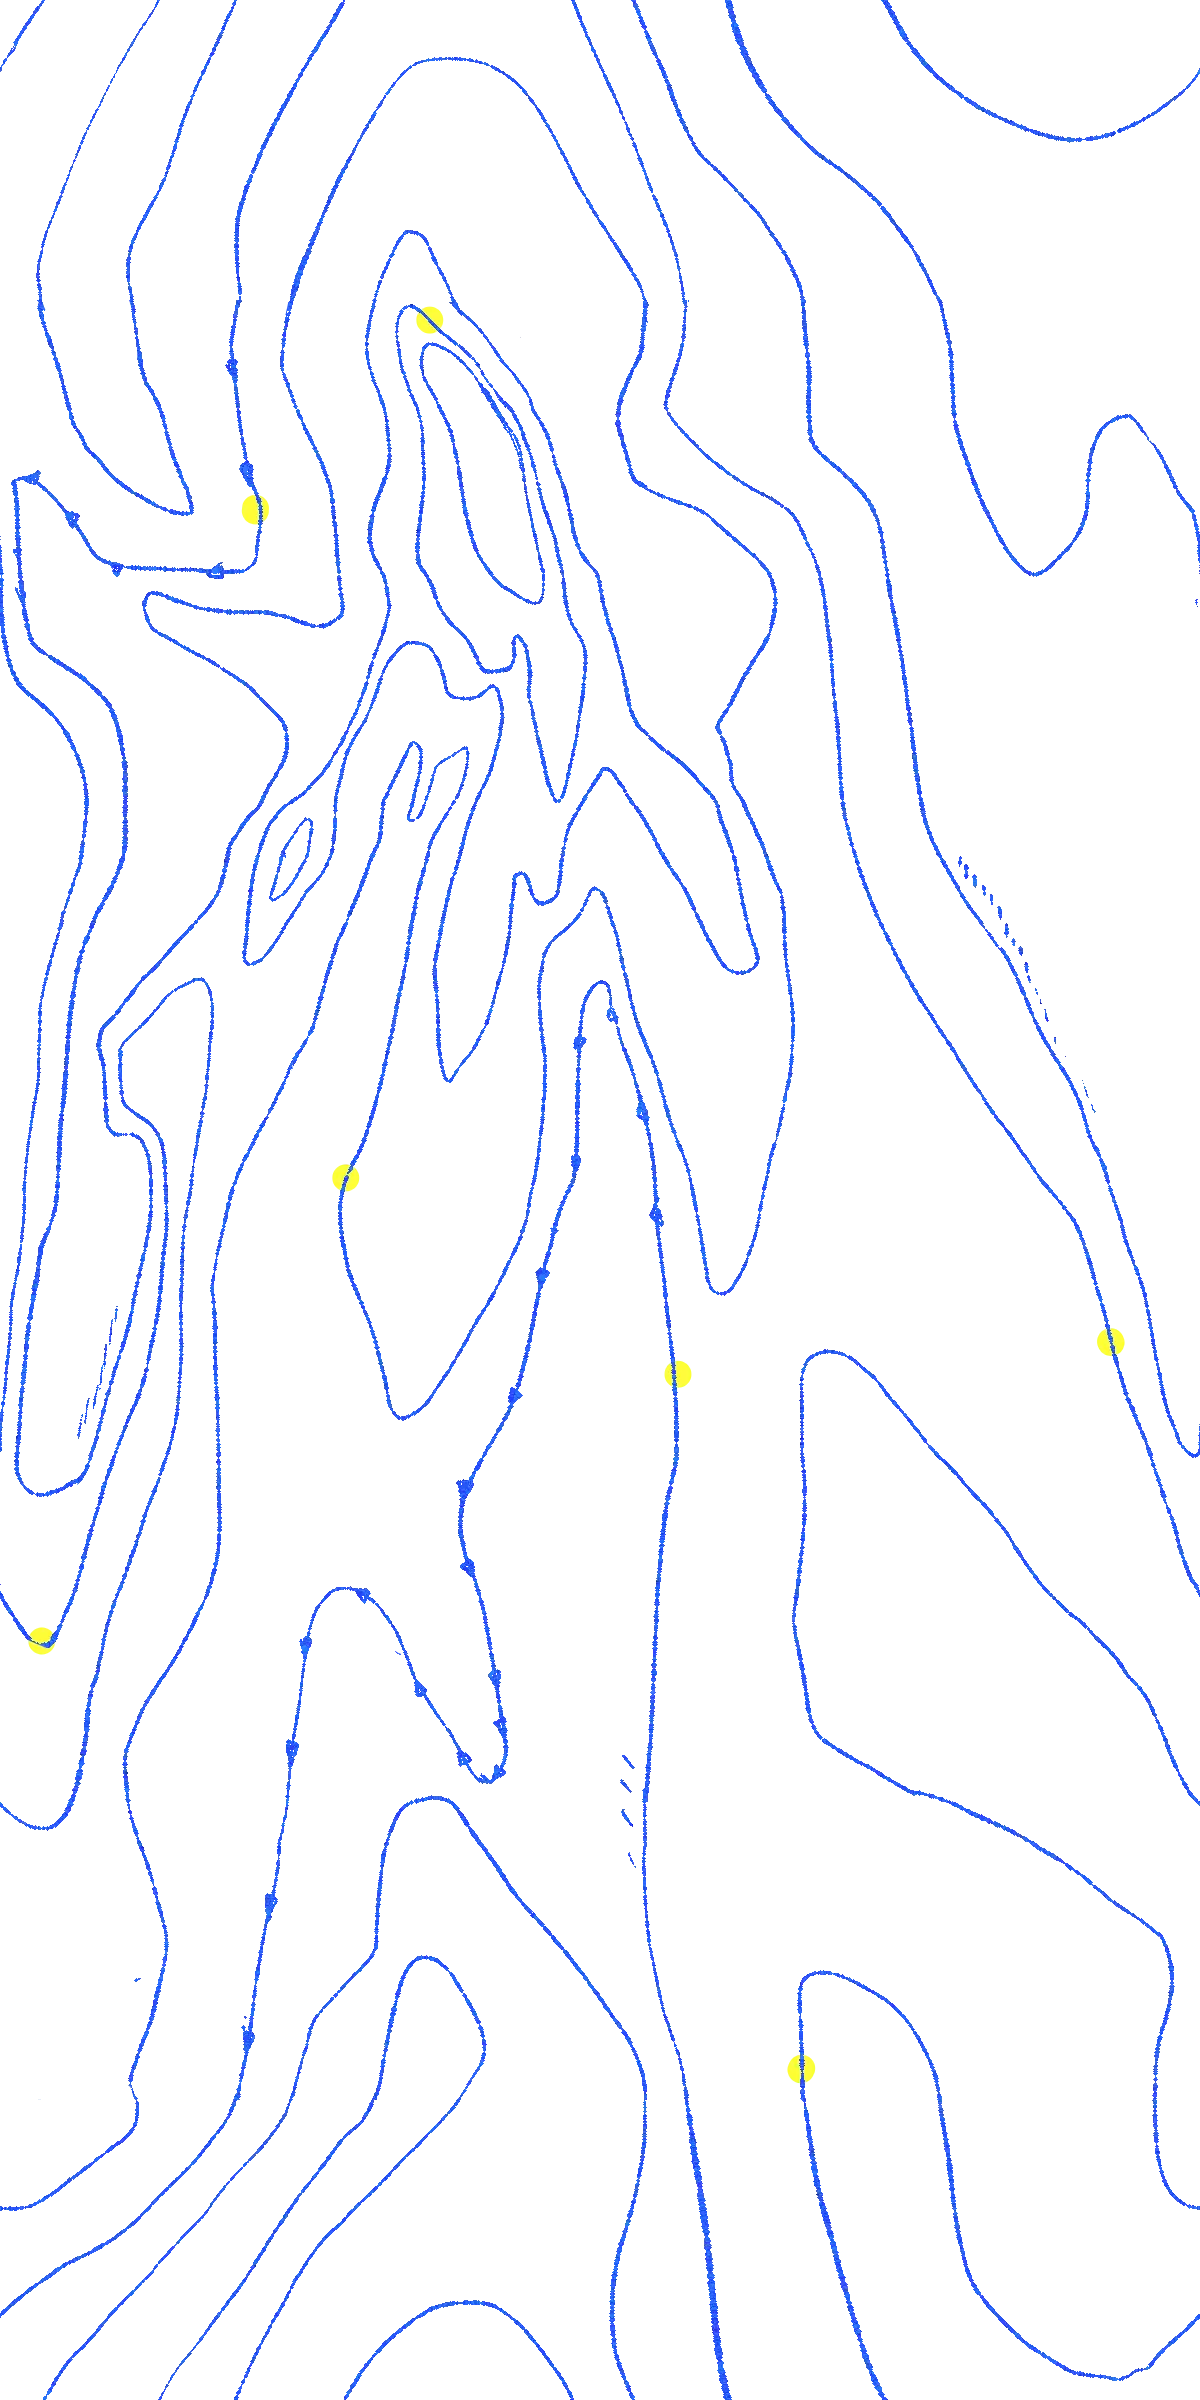
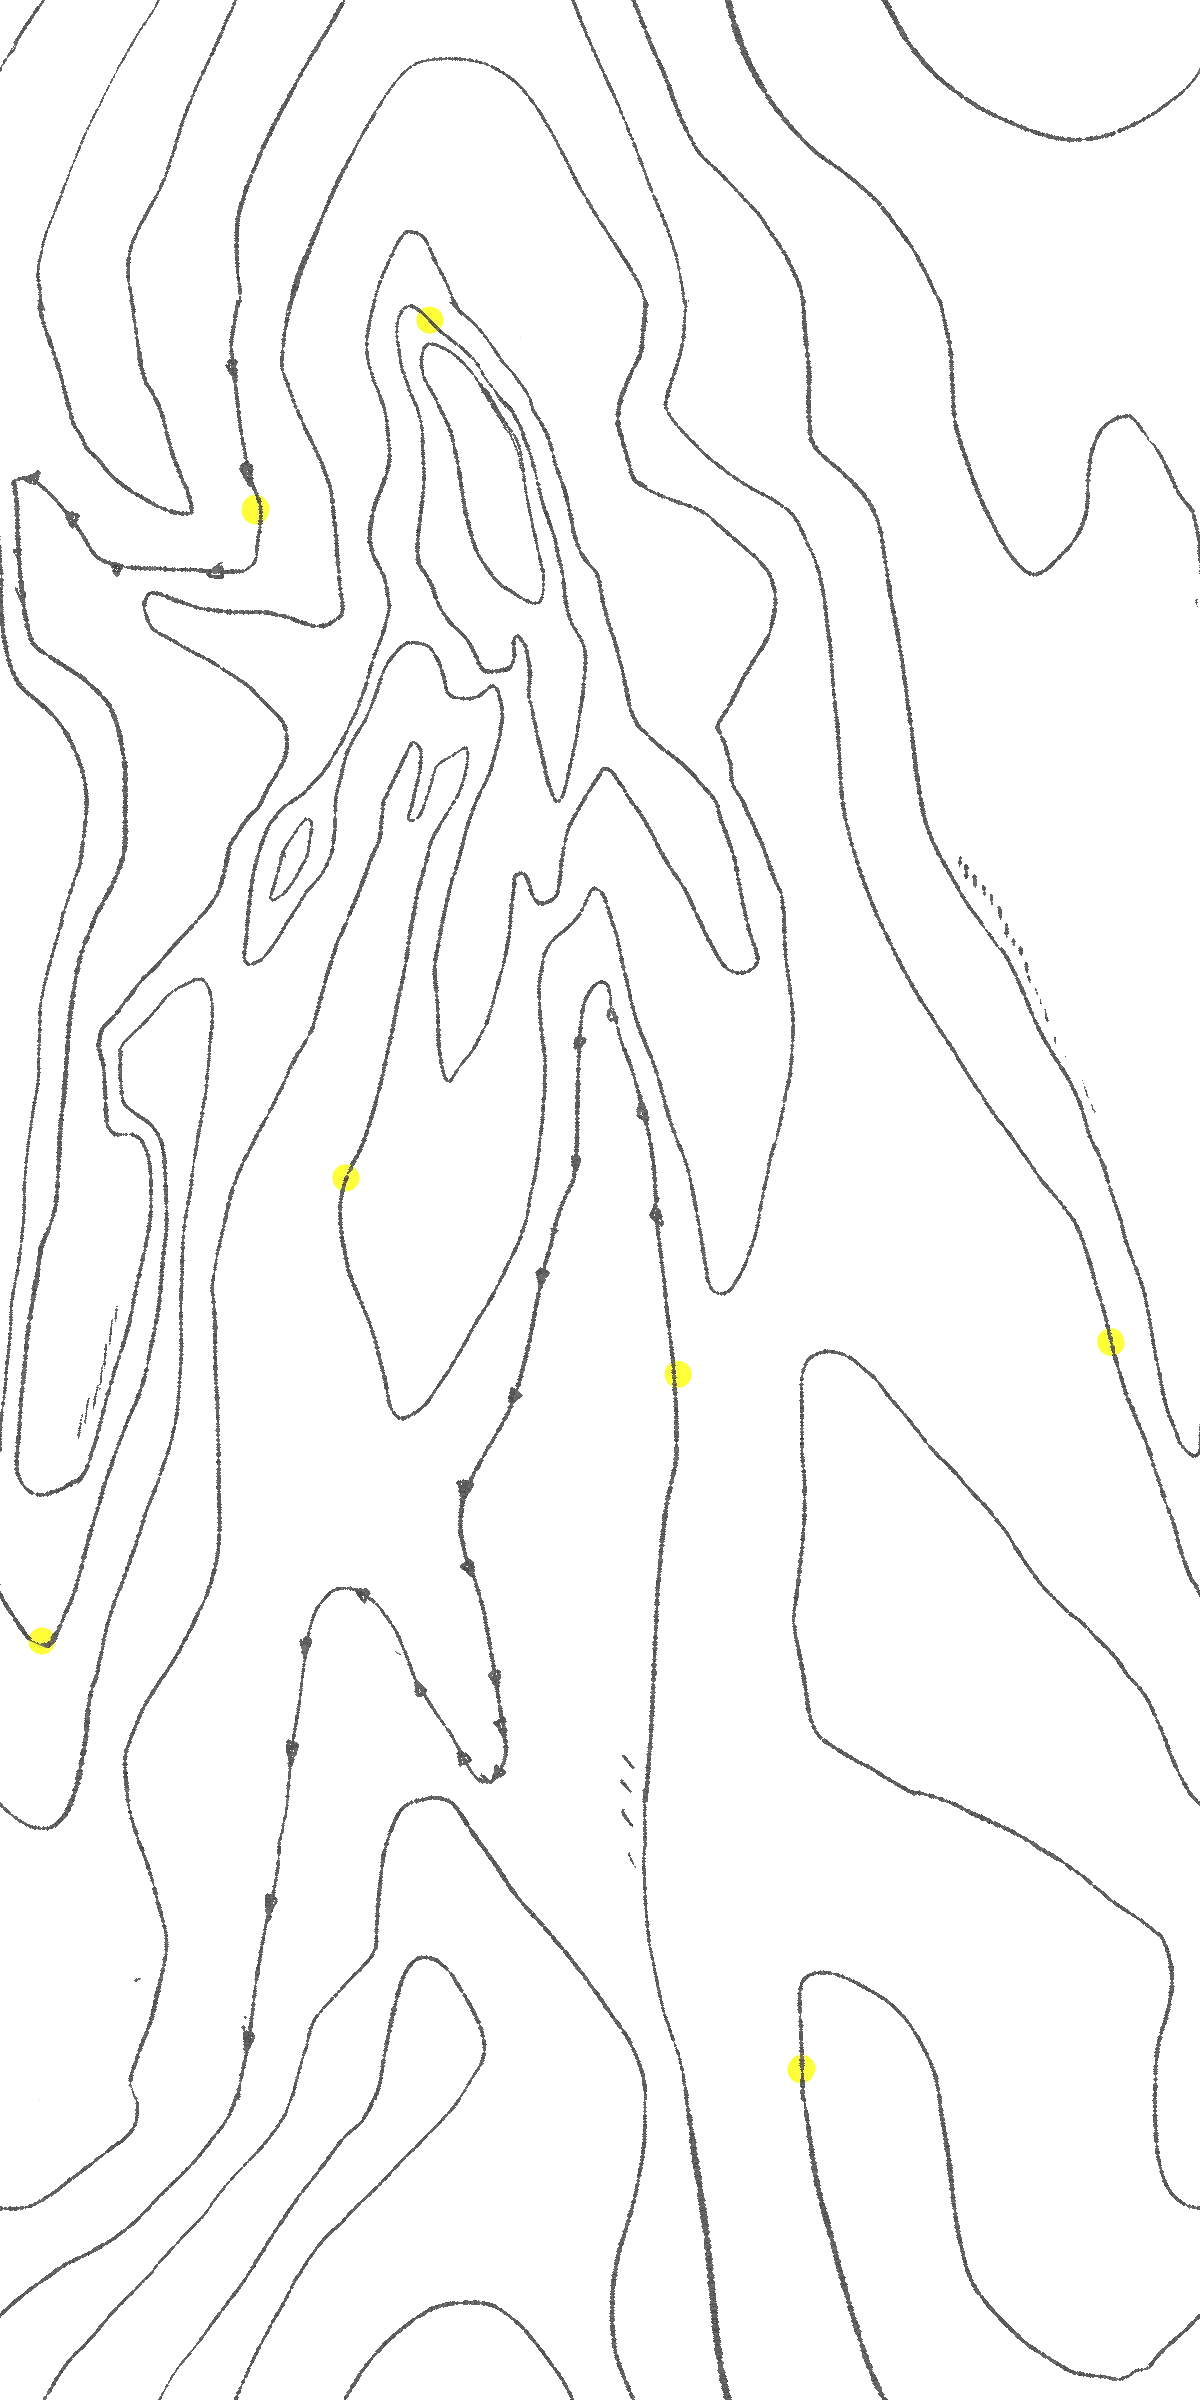
style & bg

diff --git a/RMITshowcase2026/index.html b/RMITshowcase2026/index.html
@@ -12,10 +12,12 @@
     <!-- Use Ctrl + K for comment -->
   </head>
   <body>
-    <div class="map-border" id="b-top"></div>
-    <div class="map-border" id="b-left"></div>
-    <div class="map-border" id="b-right"></div>
-    <div class="map-border" id="b-bottom"></div>
+    <div id="border">
+      <div class="map-border" id="b-top"></div>
+      <div class="map-border" id="b-left"></div>
+      <div class="map-border" id="b-right"></div>
+      <div class="map-border" id="b-bottom"></div>
+    </div>
     <nav>Home</nav>
     <!-- Split screen into connection map & info -->
     <main>
@@ -23,7 +25,7 @@
         <!-- main map has BG grid and BG art. Above are projects -->
         <div id="grid-container">
           <!-- Number of MP + SP -->
-          <div class="test"></div>
+          <div class="test">TEXT WOAZH</div>
           <div class="test"></div>
           <div class="test"></div>
           <div class="test"></div>
@@ -52,98 +54,14 @@
 
       <div id="info-page">
         <!-- Default-info section includes project type & intro -->
-        <!-- Replace it with full-info when selected -->
-        <div id="default-info"></div>
-        <div id="full-info"></div>
-        <h1>HEADER</h1>
-        <p>
-          Lorem ipsum dolor sit amet, consectetur adipiscing elit. Nam efficitur
-          lobortis metus, vel facilisis ante tempor sit amet. Integer vel turpis
-          mi. Etiam accumsan odio et dolor sagittis, vel condimentum neque
-          sodales. Nam sit amet nibh ac mi ultrices ullamcorper nec non augue.
-          Duis vitae quam neque. Aliquam dapibus orci at enim fringilla maximus.
-          Orci varius natoque penatibus et magnis dis parturient montes,
-          nascetur ridiculus mus. Sed id tortor arcu. In rhoncus augue a nulla
-          scelerisque, malesuada mattis lorem vestibulum. Ut molestie turpis
-          lorem, vel tempor libero tempus in. Fusce venenatis risus nec augue
-          sodales, sit amet tincidunt velit ultrices. Proin feugiat congue elit,
-          ut elementum nisl condimentum id. Nunc at dui ac eros tristique
-          faucibus ut ac ex. Phasellus scelerisque sollicitudin hendrerit.
-          Nullam velit urna, tristique vel efficitur sed, mattis sit amet nunc.
-          Pellentesque euismod imperdiet sapien, eu ultrices libero dignissim
-          venenatis. Vivamus purus nisl, fringilla et euismod et, bibendum sed
-          mi. Sed vitae dui nibh. Proin lobortis ornare ipsum vitae maximus.
-          Suspendisse tristique pellentesque dolor a placerat. Vestibulum
-          malesuada, libero ac interdum fermentum, arcu est facilisis elit, nec
-          pulvinar risus urna vitae justo. Proin eget dui accumsan, varius sem
-          eu, pretium lectus. Lorem ipsum dolor sit amet, consectetur adipiscing
-          elit. Nam sed tincidunt est. Sed vel nunc vitae dolor auctor porta.
-          Donec mauris sem, mattis et molestie gravida, condimentum a risus.
-          Pellentesque nibh leo, iaculis interdum sem tincidunt, laoreet
-          sollicitudin turpis. Etiam aliquam cursus est. Fusce porta dui at
-          semper viverra. Donec maximus, est eget congue luctus, mi magna
-          bibendum ante, eu hendrerit mi purus a lorem. Donec eu ligula rutrum,
-          lacinia enim et, rhoncus sapien. Proin suscipit justo non mi
-          fringilla, eu pulvinar quam mattis. Duis mattis euismod porttitor.
-          Curabitur malesuada magna porta, tincidunt tellus eget, mollis magna.
-          Pellentesque gravida erat id malesuada maximus. Pellentesque cursus,
-          sem et gravida sollicitudin, quam mauris laoreet nunc, vitae facilisis
-          lorem est ut risus. Mauris fermentum ultrices augue porta suscipit.
-          Mauris sit amet rutrum erat. Sed nec orci faucibus, egestas enim eu,
-          rutrum tortor. Donec sed justo id lectus facilisis facilisis ut eget
-          ligula. Aenean ultrices volutpat nulla, et feugiat velit venenatis
-          cursus. Nam arcu nunc, porttitor ac scelerisque vitae, lobortis in
-          nulla. Cras ut mi in mauris pretium sagittis. Proin lobortis id ipsum
-          nec pharetra. Curabitur eget justo tristique, finibus diam ut,
-          pulvinar turpis. In molestie lacinia lectus. Ut sollicitudin facilisis
-          est, sit amet tristique tortor dictum ut. Curabitur vulputate ante et
-          mi pharetra, et vulputate tortor dapibus. Sed in massa ut felis
-          molestie mollis in quis diam.
-        </p>
-        <p>
-          Lorem ipsum dolor sit amet, consectetur adipiscing elit. Nam efficitur
-          lobortis metus, vel facilisis ante tempor sit amet. Integer vel turpis
-          mi. Etiam accumsan odio et dolor sagittis, vel condimentum neque
-          sodales. Nam sit amet nibh ac mi ultrices ullamcorper nec non augue.
-          Duis vitae quam neque. Aliquam dapibus orci at enim fringilla maximus.
-          Orci varius natoque penatibus et magnis dis parturient montes,
-          nascetur ridiculus mus. Sed id tortor arcu. In rhoncus augue a nulla
-          scelerisque, malesuada mattis lorem vestibulum. Ut molestie turpis
-          lorem, vel tempor libero tempus in. Fusce venenatis risus nec augue
-          sodales, sit amet tincidunt velit ultrices. Proin feugiat congue elit,
-          ut elementum nisl condimentum id. Nunc at dui ac eros tristique
-          faucibus ut ac ex. Phasellus scelerisque sollicitudin hendrerit.
-          Nullam velit urna, tristique vel efficitur sed, mattis sit amet nunc.
-          Pellentesque euismod imperdiet sapien, eu ultrices libero dignissim
-          venenatis. Vivamus purus nisl, fringilla et euismod et, bibendum sed
-          mi. Sed vitae dui nibh. Proin lobortis ornare ipsum vitae maximus.
-          Suspendisse tristique pellentesque dolor a placerat. Vestibulum
-          malesuada, libero ac interdum fermentum, arcu est facilisis elit, nec
-          pulvinar risus urna vitae justo. Proin eget dui accumsan, varius sem
-          eu, pretium lectus. Lorem ipsum dolor sit amet, consectetur adipiscing
-          elit. Nam sed tincidunt est. Sed vel nunc vitae dolor auctor porta.
-          Donec mauris sem, mattis et molestie gravida, condimentum a risus.
-          Pellentesque nibh leo, iaculis interdum sem tincidunt, laoreet
-          sollicitudin turpis. Etiam aliquam cursus est. Fusce porta dui at
-          semper viverra. Donec maximus, est eget congue luctus, mi magna
-          bibendum ante, eu hendrerit mi purus a lorem. Donec eu ligula rutrum,
-          lacinia enim et, rhoncus sapien. Proin suscipit justo non mi
-          fringilla, eu pulvinar quam mattis. Duis mattis euismod porttitor.
-          Curabitur malesuada magna porta, tincidunt tellus eget, mollis magna.
-          Pellentesque gravida erat id malesuada maximus. Pellentesque cursus,
-          sem et gravida sollicitudin, quam mauris laoreet nunc, vitae facilisis
-          lorem est ut risus. Mauris fermentum ultrices augue porta suscipit.
-          Mauris sit amet rutrum erat. Sed nec orci faucibus, egestas enim eu,
-          rutrum tortor. Donec sed justo id lectus facilisis facilisis ut eget
-          ligula. Aenean ultrices volutpat nulla, et feugiat velit venenatis
-          cursus. Nam arcu nunc, porttitor ac scelerisque vitae, lobortis in
-          nulla. Cras ut mi in mauris pretium sagittis. Proin lobortis id ipsum
-          nec pharetra. Curabitur eget justo tristique, finibus diam ut,
-          pulvinar turpis. In molestie lacinia lectus. Ut sollicitudin facilisis
-          est, sit amet tristique tortor dictum ut. Curabitur vulputate ante et
-          mi pharetra, et vulputate tortor dapibus. Sed in massa ut felis
-          molestie mollis in quis diam.
-        </p>
+        <!-- All are in the document, but the other 2 have an invis class when unused -->
+        <section id="intro">
+          <h1>Digital Media Gradshow 2026</h1>
+          <div class="line"></div>
+        </section>
+
+        <section id="project-info"></section>
+        <section id="student-info"></section>
       </div>
     </main>
   </body>

diff --git a/RMITshowcase2026/style.css b/RMITshowcase2026/style.css
@@ -1,9 +1,9 @@
 :root {
-    --bg-map: rgb(223, 222, 198);
-    --bg-info: rgb(215, 219, 198);
-    --text-info: black;
+    --bg-map: rgb(0, 0, 0);
+    --bg-info: rgb(230, 228, 228);
+    --text-info: rgb(1, 0, 0);
     --text-map: white;
-    --grid: rgba(128, 138, 255, 0.523);
+    --grid: rgb(29, 29, 30);
     /* Define all project color here */
 }
 
@@ -15,11 +15,31 @@
     scrollbar-width: none;  /* Firefox */
 }
 
+/*==========================================================
+ TEXT */
+body {
+    color: var(--text-info);
+    /* default & info text font */
+}
+
+#map-main * {
+    color: var(--text-map);
+    /* map font */
+}
+
 h1 {
     font-size: 3rem;
 }
-/*==========================================================*/
-/* MAIN */
+
+.line {
+    width: 100%;
+    height: 2px;
+    background-color: var(--text-info);
+    margin: 20px 0px;
+}
+
+/*==========================================================
+ MAIN */
 #map-main {
     min-height: 100vh;
     background-color: var(--bg-map);
@@ -34,7 +54,7 @@ h1 {
     display: grid;
     gap: 3vh;
     padding: 8vh 3vh 0vh;
-    background-size: 80px 80px;
+    background-size: 50px 50px;
      background-image:
         linear-gradient(to right, var(--grid) 2px, transparent 1px),
         linear-gradient(to bottom, var(--grid) 2px, transparent 1px);
@@ -47,8 +67,8 @@ h1 {
     padding: 10px;
     overflow-y: scroll;
 }
-/*==========================================================*/
-/* TEST */
+/*==========================================================
+ TEST */
 .test {
     width: 10;
     aspect-ratio: 1;
@@ -59,8 +79,8 @@ h1 {
 }
 
 
-/*==========================================================*/
-/* MAP BORDER */
+/*==========================================================
+ MAP BORDER */
 nav {
     position: fixed;
     top: 0;
